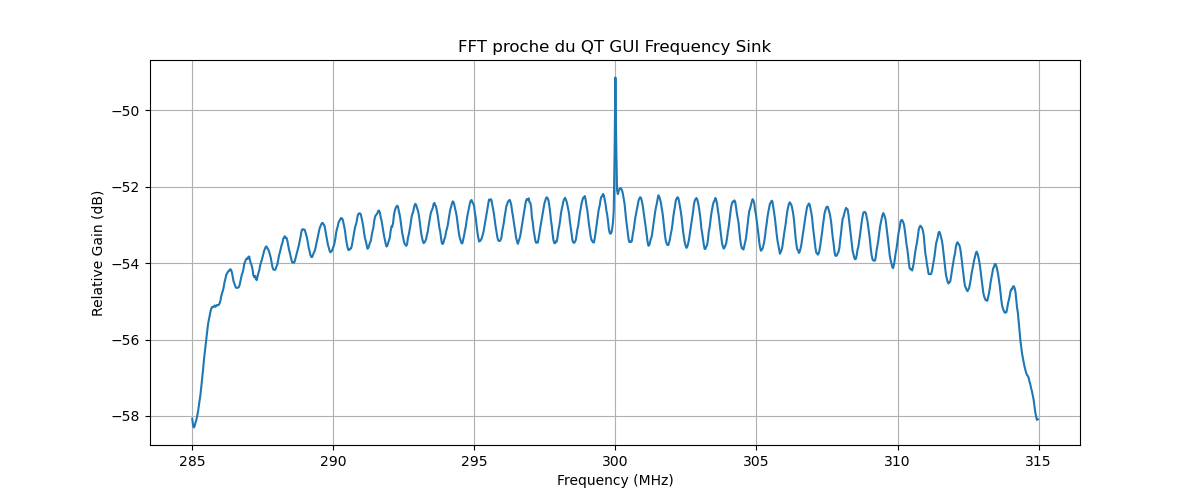
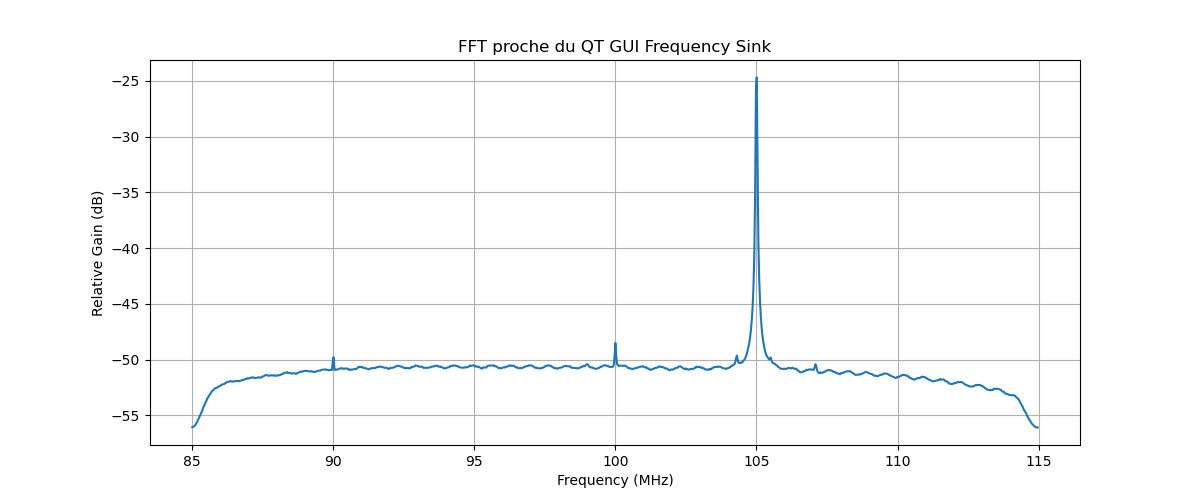
Must found how to use 10 Mhz

diff --git a/main-V0.py b/main-V0.py
@@ -8,7 +8,7 @@ import os
 # =======================
 # CONFIGURATION
 # =======================
-FREQ = 300e6
+FREQ = 100e6
 RATE = 30e6
 DURATION = 1.0
 GAIN = 50
@@ -125,8 +125,8 @@ def Simulate_PD_Signal(num_samps, rate, f_offset=10e6):
     phase_ref = (360.0 * f_ref * t) % 360.0
     
     prob_pd = (
-        0.1 * gaussian_phase(phase_ref, 60, 12) +
-        0.01 * gaussian_phase(phase_ref, 240, 15)
+        0.8 * gaussian_phase(phase_ref, 60, 12) +
+        0.7 * gaussian_phase(phase_ref, 240, 15)
     )
     prob_pd = prob_pd / np.max(prob_pd)
     
@@ -135,7 +135,7 @@ def Simulate_PD_Signal(num_samps, rate, f_offset=10e6):
     p_global = 0.01 * prob_pd
     candidats = np.where(rng.random(num_samps) < p_global)[0]
     
-    min_gap_samples = int(0.0002 * rate)
+    min_gap_samples = int(200e-6 * rate)
     
     event_indices = []
     last_idx = -min_gap_samples
@@ -153,7 +153,7 @@ def Simulate_PD_Signal(num_samps, rate, f_offset=10e6):
     tp = np.arange(pulse_len) / rate
     
     for idx in event_indices:
-        A = rng.uniform(0.0015, 0.041)
+        A = rng.uniform(0.005, 0.04)
         # Utilisation de f_offset pour décaler la PD en IQ Baseband (SDR)
         pulse = A * np.exp(-tp / tau) * np.exp(1j * 2 * np.pi * f_offset * tp)
         
@@ -281,26 +281,26 @@ def main():
     # INJECTION ET SYNCHRONISATION PRPD (NOUVEAU)
     # ========================================================
     print("\n--- DEBUT: SIMULATION & TRAITEMENT DP ---")
-    F_OFFSET = 1e6
+    F_OFFSET = 5e6
     
     # 1. On génère numériquement un vecteur signal de défaut (DP)
     print("Génération de Décharges Partielles simulées...")
-    # pd_simulated = Simulate_PD_Signal(len(samples), RATE, f_offset=F_OFFSET)
+    pd_simulated = Simulate_PD_Signal(len(samples), RATE, f_offset=F_OFFSET)
     
     # 2. On ajoute ça directement aux "samples" réels reçus de l'antenne SDR
-    # samples_with_pd = samples + pd_simulated
+    samples_with_pd = samples + pd_simulated
     
     # 3. DSP (Digital Signal Processing) de l'extraction
-    # envelope, peaks, properties = Process_PD_Signal(samples_with_pd, RATE, f_offset=F_OFFSET)
+    envelope, peaks, properties = Process_PD_Signal(samples_with_pd, RATE, f_offset=F_OFFSET)
     
     # 4. Affichage du Diagramme PRPD
-    # Plot_PRPD(peaks, properties, RATE, len(samples_with_pd), name="_simulation_b200")
+    Plot_PRPD(peaks, properties, RATE, len(samples_with_pd), name="_simulation_b200")
     print("--- FIN: SIMULATION & TRAITEMENT DP ---\n")
     
 
     # Plot signal Brute
-    freqs, psd_db = Freq_domain_gr_blocks(samples, RATE, FREQ, NFFT, f_plot_low=None, f_plot_high=None, name = "")
-    _, _ = Freq_domain_gr_blocks(samples_p, RATE, FREQ, NFFT, f_plot_low=None, f_plot_high=None, name = "_Second_Channel")
+    freqs, psd_db = Freq_domain_gr_blocks(samples_with_pd, RATE, FREQ, NFFT, f_plot_low=None, f_plot_high=None, name = "")
+    # _, _ = Freq_domain_gr_blocks(samples_p, RATE, FREQ, NFFT, f_plot_low=None, f_plot_high=None, name = "_Second_Channel")
     # _, _ = Freq_domain_gr_blocks(pd_simulated, RATE, FREQ, NFFT, f_plot_low=None, f_plot_high=None, name = "")
     # _, _ = Freq_domain_gr_blocks(samples_with_pd, RATE, FREQ, NFFT, f_plot_low=None, f_plot_high=None, name = "")
     # Time_domain_gr(pd_simulated, RATE)
